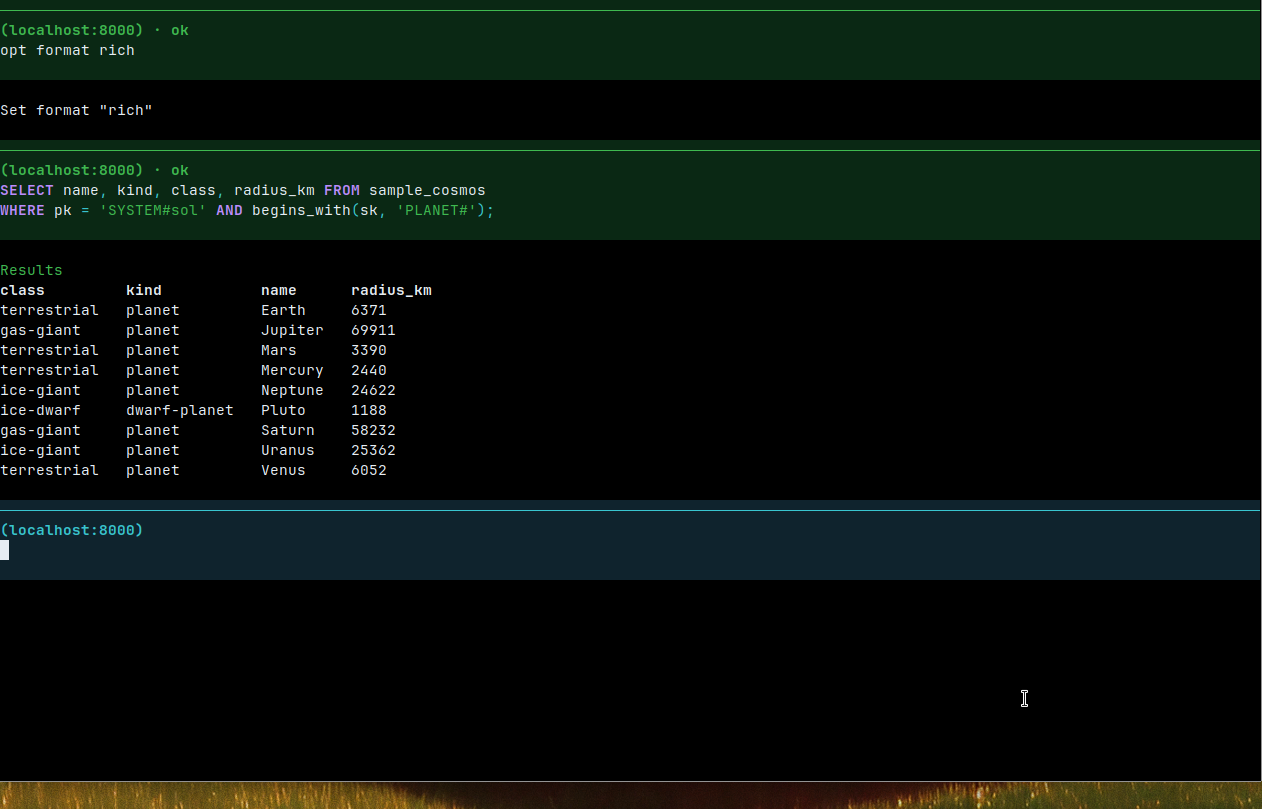
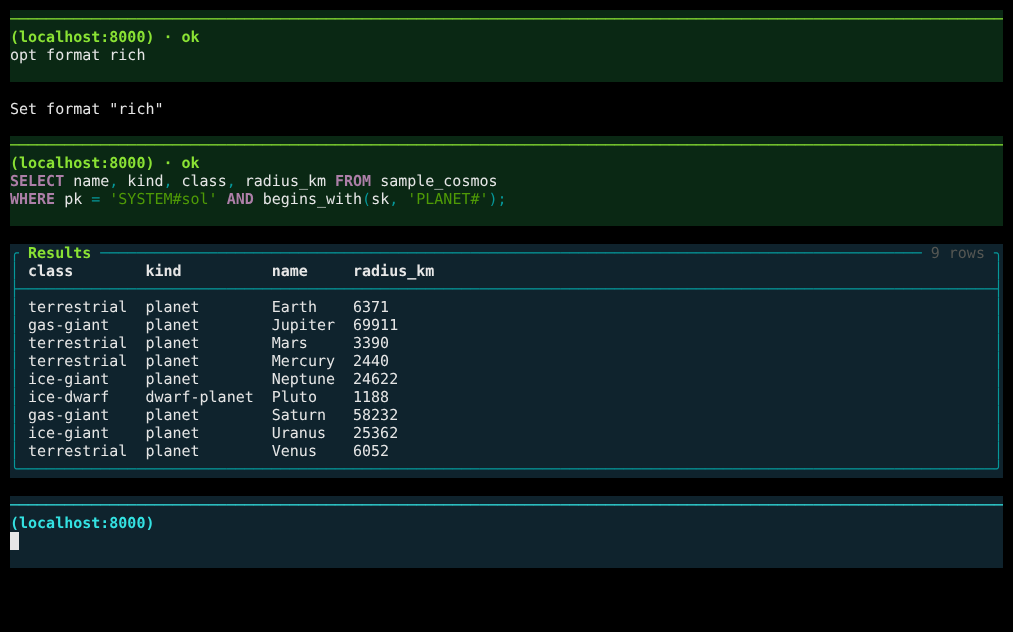
Refresh README screenshots and update the README.
Recapture the CLI, web, and notebook shots from the cosmos sample. The web
shots come from a new Playwright spec that serves dqlrs-web/examples; the
app fixture takes a workspaceSource option for that. The README now shows
the explain, table browser, smart-format, and launcher shots, describes the
current web UI, adds the release installer, and links the docs. List --mcp
and --load-tables in rust-docs, and document how to recapture each shot.

Claude-Session: https://claude.ai/code/session_01UxJe5dH3dxRwaxpmmwekoU

diff --git a/dqlrs-web/playwright/tests/readme-screenshots.spec.js b/dqlrs-web/playwright/tests/readme-screenshots.spec.js
@@ -1,0 +1,91 @@
+import { spawnSync } from "node:child_process";
+import fs from "node:fs";
+import os from "node:os";
+import path from "node:path";
+import { fileURLToPath } from "node:url";
+import { test, expect } from "../support/app.js";
+import { playwrightArtifact } from "../support/artifacts.js";
+import { node, reveal } from "../support/helpers.js";
+
+// Copy them over as described in screenshots/README.md (drop the readme-web- prefix).
+// Copy them over with: cp .playwright-artifacts/readme-web-*.png screenshots/web/ (drop the prefix).
+
+const here = path.dirname(fileURLToPath(import.meta.url));
+const examples = path.resolve(here, "../../examples");
+
+test.use({
+  workspaceSource: examples,
+  viewport: { width: 1440, height: 900 },
+});
+
+function seedCosmos(binary) {
+  // `file` reads one path per call. Passing the DQL to -c does not work: it starts with a `--` comment.
+  for (const name of ["00-table.dql", "10-bodies.dql"]) {
+    const result = spawnSync(
+      binary,
+      ["-H", "localhost", "-p", "8000", "-c", `file ${path.join(examples, "cosmos", name)}`],
+      {
+        encoding: "utf8",
+        timeout: 60_000,
+        env: {
+          ...process.env,
+          AWS_ACCESS_KEY_ID: "fakeid",
+          AWS_SECRET_ACCESS_KEY: "fakekey",
+          AWS_REGION: "us-west-1",
+          AWS_EC2_METADATA_DISABLED: "true",
+          DQLRS_TABLE_CACHE: fs.mkdtempSync(path.join(os.tmpdir(), "dqlrs-table-cache-")),
+        },
+      },
+    );
+    expect(result.status, result.stderr || result.stdout).toBe(0);
+  }
+}
+
+async function openQueries(page, app) {
+  await page.goto(`${app.baseURL}/`);
+  await reveal(page, "cosmos/20-queries.dql");
+  await node(page, "cosmos/20-queries.dql").click();
+  await expect(page.locator("#file-name")).toHaveText("20-queries.dql");
+}
+
+// Scroll the statement's first line near the top of the editor, put the cursor in it, and run it.
+async function runStatement(page, firstLine, { above = 1 } = {}) {
+  const line = page.locator(".cm-line", { hasText: firstLine }).first();
+  await line.scrollIntoViewIfNeeded();
+  await line.evaluate((el, rows) => {
+    const scroller = el.closest(".cm-scroller");
+    scroller.scrollTop += el.getBoundingClientRect().top - scroller.getBoundingClientRect().top - rows * el.offsetHeight;
+  }, above);
+  await line.click();
+  await page.locator("#run").click();
+  await expect(page.locator("#run")).toBeEnabled();
+}
+
+async function settle(page) {
+  await page.mouse.move(0, 0);
+  await page.evaluate(() => document.activeElement?.blur());
+  await page.waitForTimeout(300);
+}
+
+test("README web shots: query, explain, tables", async ({ page, app }, testInfo) => {
+  test.skip(testInfo.project.name !== "light", "README shots use the light theme");
+  // Leave sample_cosmos in place: it is the same table `just web` users load from the cosmos example.
+  seedCosmos(app.binary);
+
+  await openQueries(page, app);
+  await runStatement(page, "SELECT name, kind, class, radius_km FROM sample_cosmos", { above: 8 });
+  await expect(page.locator("#result-table")).toContainText("Jupiter");
+  await settle(page);
+  await page.screenshot({ path: playwrightArtifact("readme-web-query.png") });
+
+  await runStatement(page, "EXPLAIN SELECT * FROM sample_cosmos", { above: 8 });
+  await expect(page.getByRole("term").filter({ hasText: "key condition expression" }).last()).toBeVisible();
+  await settle(page);
+  await page.screenshot({ path: playwrightArtifact("readme-web-explain.png") });
+
+  await page.locator("#mode-tables").click();
+  await page.locator("#table-list").getByText("sample_cosmos", { exact: true }).click();
+  await expect(page.locator("#tables-view")).toContainText("PLANET#earth");
+  await settle(page);
+  await page.screenshot({ path: playwrightArtifact("readme-web-tables.png") });
+});

diff --git a/dqlrs-web/playwright/support/app.js b/dqlrs-web/playwright/support/app.js
@@ -99,6 +99,8 @@ export const test = base.extend({
   // SAVE and LOAD resolve relative paths from the dqlrs process directory.
   // Tests that opt in get a temp directory so those files stay out of the repo.
   isolateCwd: [false, { option: true }],
+  // Folder copied into the temp workspace the server opens. README screenshots use dqlrs-web/examples.
+  workspaceSource: [fixtureRoot, { option: true }],
   themeInit: [async ({ page }, use, testInfo) => {
     if (testInfo.project.name === "dark") {
       await page.addInitScript(() => {
@@ -113,10 +115,10 @@ export const test = base.extend({
     }
     await use();
   }, { auto: true }],
-  app: async ({ isolateCwd }, use) => {
+  app: async ({ isolateCwd, workspaceSource }, use) => {
     // The server reports paths under its canonical root, and macOS links /var to /private/var.
     const workspace = fs.realpathSync(fs.mkdtempSync(path.join(os.tmpdir(), "dqlrs-web-")));
-    fs.cpSync(fixtureRoot, workspace, { recursive: true });
+    fs.cpSync(workspaceSource, workspace, { recursive: true });
     const cwd = isolateCwd ? fs.mkdtempSync(path.join(os.tmpdir(), "dqlrs-web-cwd-")) : webRoot;
     const port = await freePort();
     const binary = dqlrsBinary();

diff --git a/README.md b/README.md
@@ -44,7 +44,13 @@ Install from the **`v-rust`** branch on GitHub.
 
 ### Rust `dqlrs` (recommended)
 
-Requires [Rust/Cargo](https://rustup.rs/).
+Prebuilt binary from [GitHub releases](https://github.com/jspreddy/dql/releases):
+
+```bash
+curl -fsSL https://raw.githubusercontent.com/jspreddy/dql/HEAD/scripts/rust-install.sh | sh
+```
+
+Or build it with [Rust/Cargo](https://rustup.rs/):
 
 ```bash
 cargo install --git https://github.com/jspreddy/dql.git --branch v-rust \
@@ -96,7 +102,14 @@ dqlrs
 dqlrs -H localhost -p 8000
 ```
 
-![dqlrs interactive REPL](screenshots/cli/repl.png)
+`opt format rich` draws results as a table:
+
+![dqlrs interactive REPL with opt format rich](screenshots/cli/repl.png)
+
+The default `smart` format switches to one block per item when a row has nested
+maps:
+
+![dqlrs smart format with nested maps](screenshots/cli/cosmos-planets.png)
 
 ### Web UI
 
@@ -105,10 +118,27 @@ dqlrs web
 dqlrs web -H localhost -p 8000 --dir ~/queries
 ```
 
-Query editor, `.dql` file tree, table browser — default
-`http://127.0.0.1:8765`.
+Opens `http://127.0.0.1:8765` by default. The server is the `dqlrs` binary;
+the browser assets are bundled into it.
 
-![dqlrs web UI](screenshots/web/query.png)
+- **Query:** `.dql` file tree on the left, CodeMirror editor with DQL
+  highlighting and lint, and Result / History / Lint tabs under it. Run the
+  statement at the cursor (Ctrl+Enter) or the whole file.
+- **Tables:** every table with its keys, 50 rows at a time.
+- Search across tables, columns, and queries, and a light or dark theme.
+- `--mcp` also serves MCP tools at `/mcp` on the same host.
+
+![dqlrs web UI query editor](screenshots/web/query.png)
+
+`EXPLAIN` shows the plan as a card, with a JSON toggle:
+
+![dqlrs web UI explain plan](screenshots/web/explain.png)
+
+The table browser:
+
+![dqlrs web UI table browser](screenshots/web/tables.png)
+
+Details: [`dqlrs-web/README.md`](dqlrs-web/README.md).
 
 ### Notebook
 
@@ -117,22 +147,30 @@ dqlrs notebook
 dqlrs notebook --local
 ```
 
-JupyterLab with a **DQL (Rust)** kernel.
+JupyterLab with a **DQL (Rust)** kernel. The first run installs JupyterLab into
+`~/.local/share/dqlrs/notebook` (needs Python 3.10+ or
+[uv](https://docs.astral.sh/uv/)) and writes a `getting-started-dqlrs.ipynb`
+starter into the current folder. `--local` points cells at DynamoDB Local.
 
-![dqlrs notebook](screenshots/notebook/cosmos.png)
+![dqlrs notebook running a query](screenshots/notebook/cosmos.png)
+
+The launcher lists the DQL (Rust) notebook and console:
+
+![JupyterLab launcher with the DQL (Rust) kernel](screenshots/notebook/launcher.png)
 
 ## Compare the three surfaces
 
 | | REPL | Web (`dqlrs web`) | Notebook |
 | --- | :---: | :---: | :---: |
 | Interactive DQL | Yes (TUI) | Yes (editor) | Yes (cells) |
-| One-shot / scripts | `-c` outside the REPL | — | Cells (or `-c` via kernel) |
-| Table browser | `ls` / `SHOW` / `DESCRIBE` | Tables nav + sample rows | Via statements |
-| `.dql` files | `file <path>` | Left nav create/edit/run | Jupyter file browser |
+| One-shot / scripts | `-c` outside the REPL | Run file | Cells (or `-c` via kernel) |
+| Table browser | `ls` / `SHOW` / `DESCRIBE` | Tables view, 50 rows a page | Via statements |
+| `.dql` files | `file <path>` | File tree: create, rename, move, run | Jupyter file browser |
 | Multi-cell workflows | — | — | Yes |
 | `EXPLAIN` UI | Text plan | Plan card + JSON toggle | As DQL in a cell |
 | Meta-commands (`opt`, `whoami`, …) | Full set | Session via server | Kernel / magics |
-| History | `~/.dql/history` | — | Jupyter history |
+| Lint | — | Lint tab and underlines | — |
+| History | `~/.dql/history` | History tab (this page) | Jupyter history |
 
 ## Credentials
 
@@ -175,4 +213,14 @@ EXPLAIN SELECT * FROM sample_cosmos
 WHERE pk = 'PLANET#jupiter' AND begins_with(sk, 'MOON#');
 ```
 
-Maintainer notes live in [`MAINTAINER.md`](MAINTAINER.md).
+## Documentation
+
+| Where | What |
+| --- | --- |
+| [`rust-docs/`](rust-docs/README.md) | `dqlrs` user guide: flags, `--serve`, notebook, SAVE/LOAD, migration from Python, architecture |
+| [`rust-docs/plans/`](rust-docs/plans/README.md) | Architecture notes, open design debt, security plans, archive of finished plans |
+| [`dqlrs-web/`](dqlrs-web/README.md) | Web UI behavior and Playwright tests |
+| [`notebook/`](notebook/README.md) | JupyterLab setup from a checkout (Python and Rust kernels) |
+| [`py-docs/`](py-docs/) | Python `dql` docs (Sphinx) |
+| [`screenshots/`](screenshots/README.md) | The images on this page |
+| [`MAINTAINER.md`](MAINTAINER.md) | Repository layout, builds, releases |

diff --git a/screenshots/README.md b/screenshots/README.md
@@ -1,9 +1,48 @@
 # Screenshots
 
-Product shots used by the top-level [`README.md`](../README.md).
+Product shots used by the top-level [`README.md`](../README.md). Every shot
+uses the cosmos sample from
+[`dqlrs-web/examples/cosmos/`](../dqlrs-web/examples/cosmos/) against DynamoDB
+Local.
 
-| Folder | Interface |
+| File | Shows |
 | --- | --- |
-| [`cli/`](cli/) | `dqlrs` REPL / TUI |
-| [`web/`](web/) | `dqlrs web` |
-| [`notebook/`](notebook/) | `dqlrs notebook` |
+| [`cli/repl.png`](cli/repl.png) | REPL: `opt format rich`, then Sol's planets as a table |
+| [`cli/cosmos-planets.png`](cli/cosmos-planets.png) | REPL: default `smart` format, expanded rows with nested maps |
+| [`web/query.png`](web/query.png) | `dqlrs --web` query editor with a result |
+| [`web/explain.png`](web/explain.png) | `dqlrs --web` explain plan card |
+| [`web/tables.png`](web/tables.png) | `dqlrs --web` table browser |
+| [`notebook/cosmos.png`](notebook/cosmos.png) | `dqlrs notebook`: a DQL (Rust) cell and its table |
+| [`notebook/getting-started.png`](notebook/getting-started.png) | `dqlrs notebook`: the starter notebook it writes |
+| [`notebook/launcher.png`](notebook/launcher.png) | `dqlrs notebook`: launcher with the DQL (Rust) kernel |
+
+## Recapture
+
+Seed the table first (`file` reads one path per call):
+
+```bash
+just dynamo
+dqlrs -H localhost -p 8000 -c "file dqlrs-web/examples/cosmos/00-table.dql"
+dqlrs -H localhost -p 8000 -c "file dqlrs-web/examples/cosmos/10-bodies.dql"
+```
+
+**Web.** The Playwright spec
+[`readme-screenshots.spec.js`](../dqlrs-web/playwright/tests/readme-screenshots.spec.js)
+seeds the table itself and writes three 1440×900 shots to
+`.playwright-artifacts/`:
+
+```bash
+just web-test -- tests/readme-screenshots.spec.js --project light
+for n in query explain tables; do cp .playwright-artifacts/readme-web-$n.png screenshots/web/$n.png; done
+```
+
+**CLI.** Run `dqlrs -H localhost -p 8000` in a 110×34 terminal with a black
+background. For `repl.png`, type `opt format rich`, then the Sol planets query
+from `20-queries.dql`. For `cosmos-planets.png`, start a new session and run the
+terrestrial filter query. The current shots were captured from tmux
+(`capture-pane -e -N`) and rendered with xterm.js.
+
+**Notebook.** From an empty folder that holds only `cosmos.ipynb` (a heading and
+the Sol planets query), run `dqlrs notebook --local`. Open
+`getting-started-dqlrs.ipynb` and `cosmos.ipynb`, run the query cell, and
+capture Lab at 1440×900 with the news toast dismissed.
